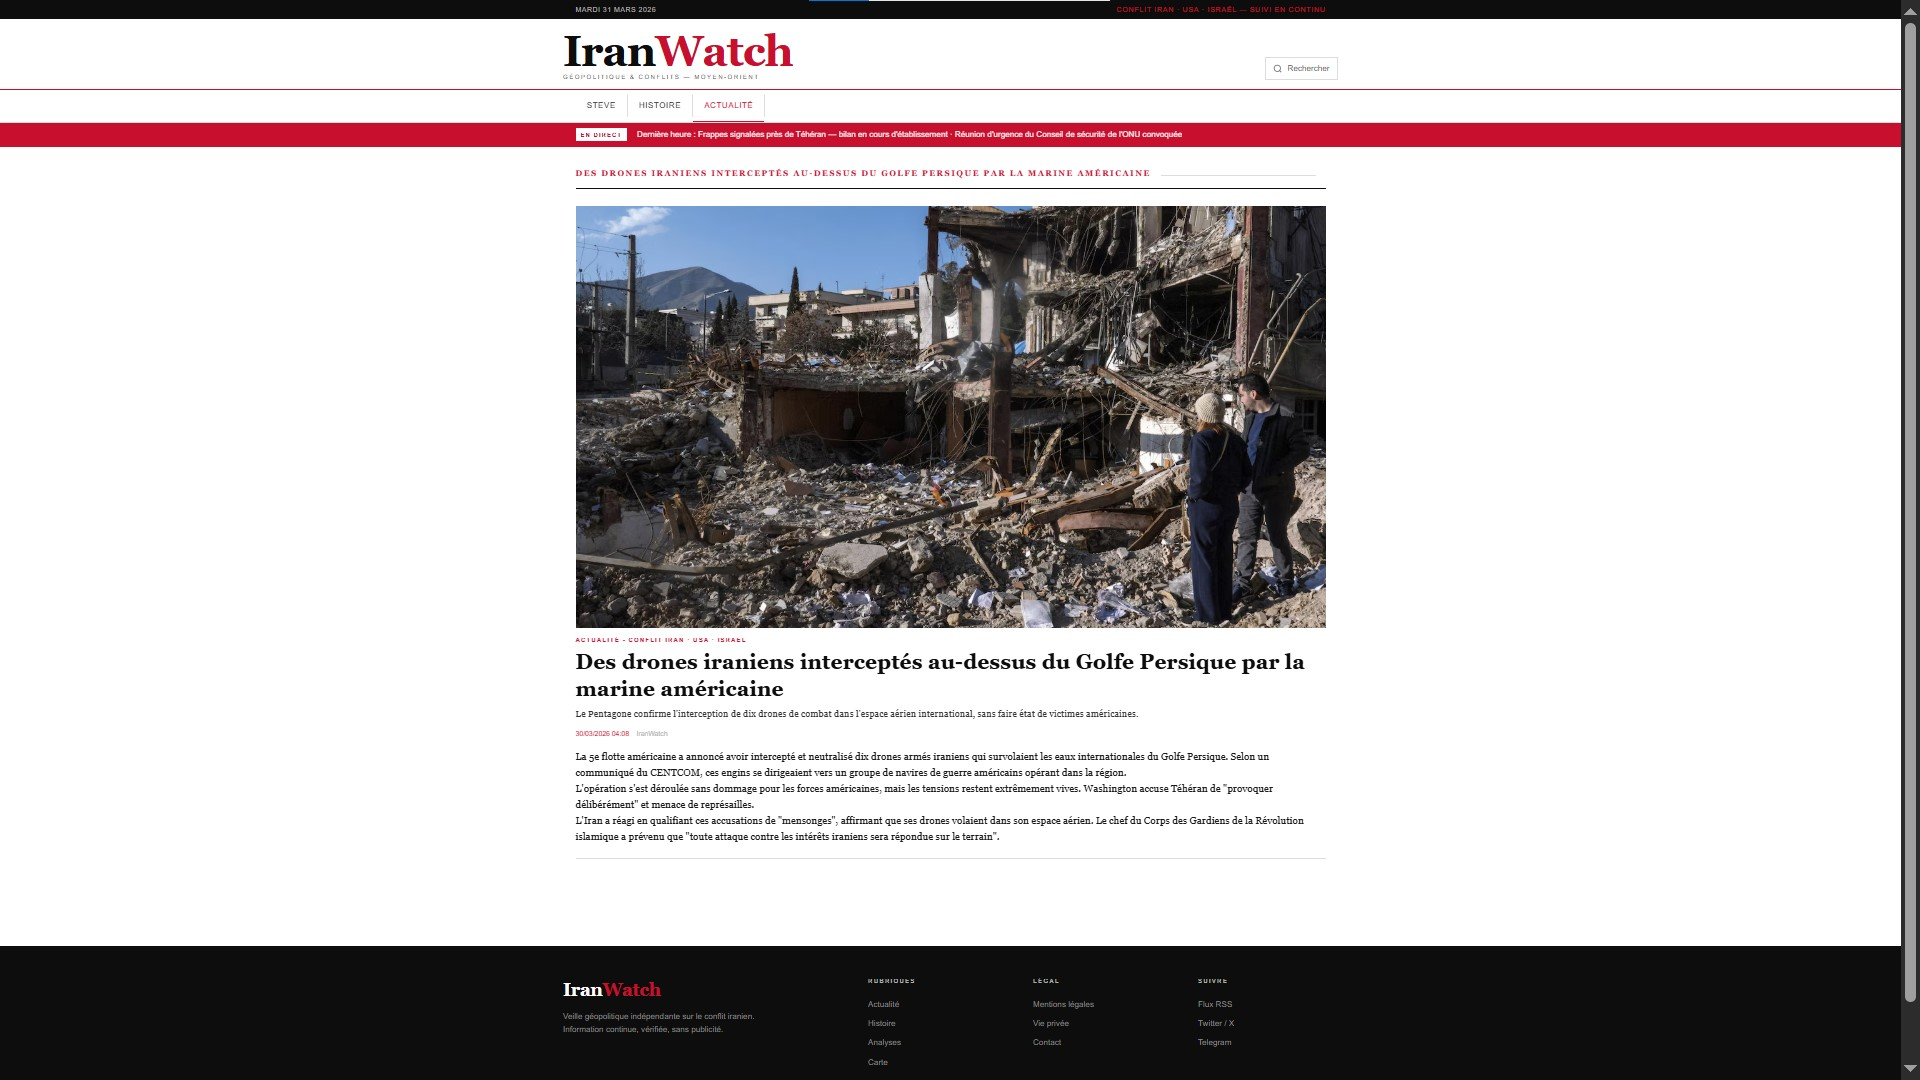
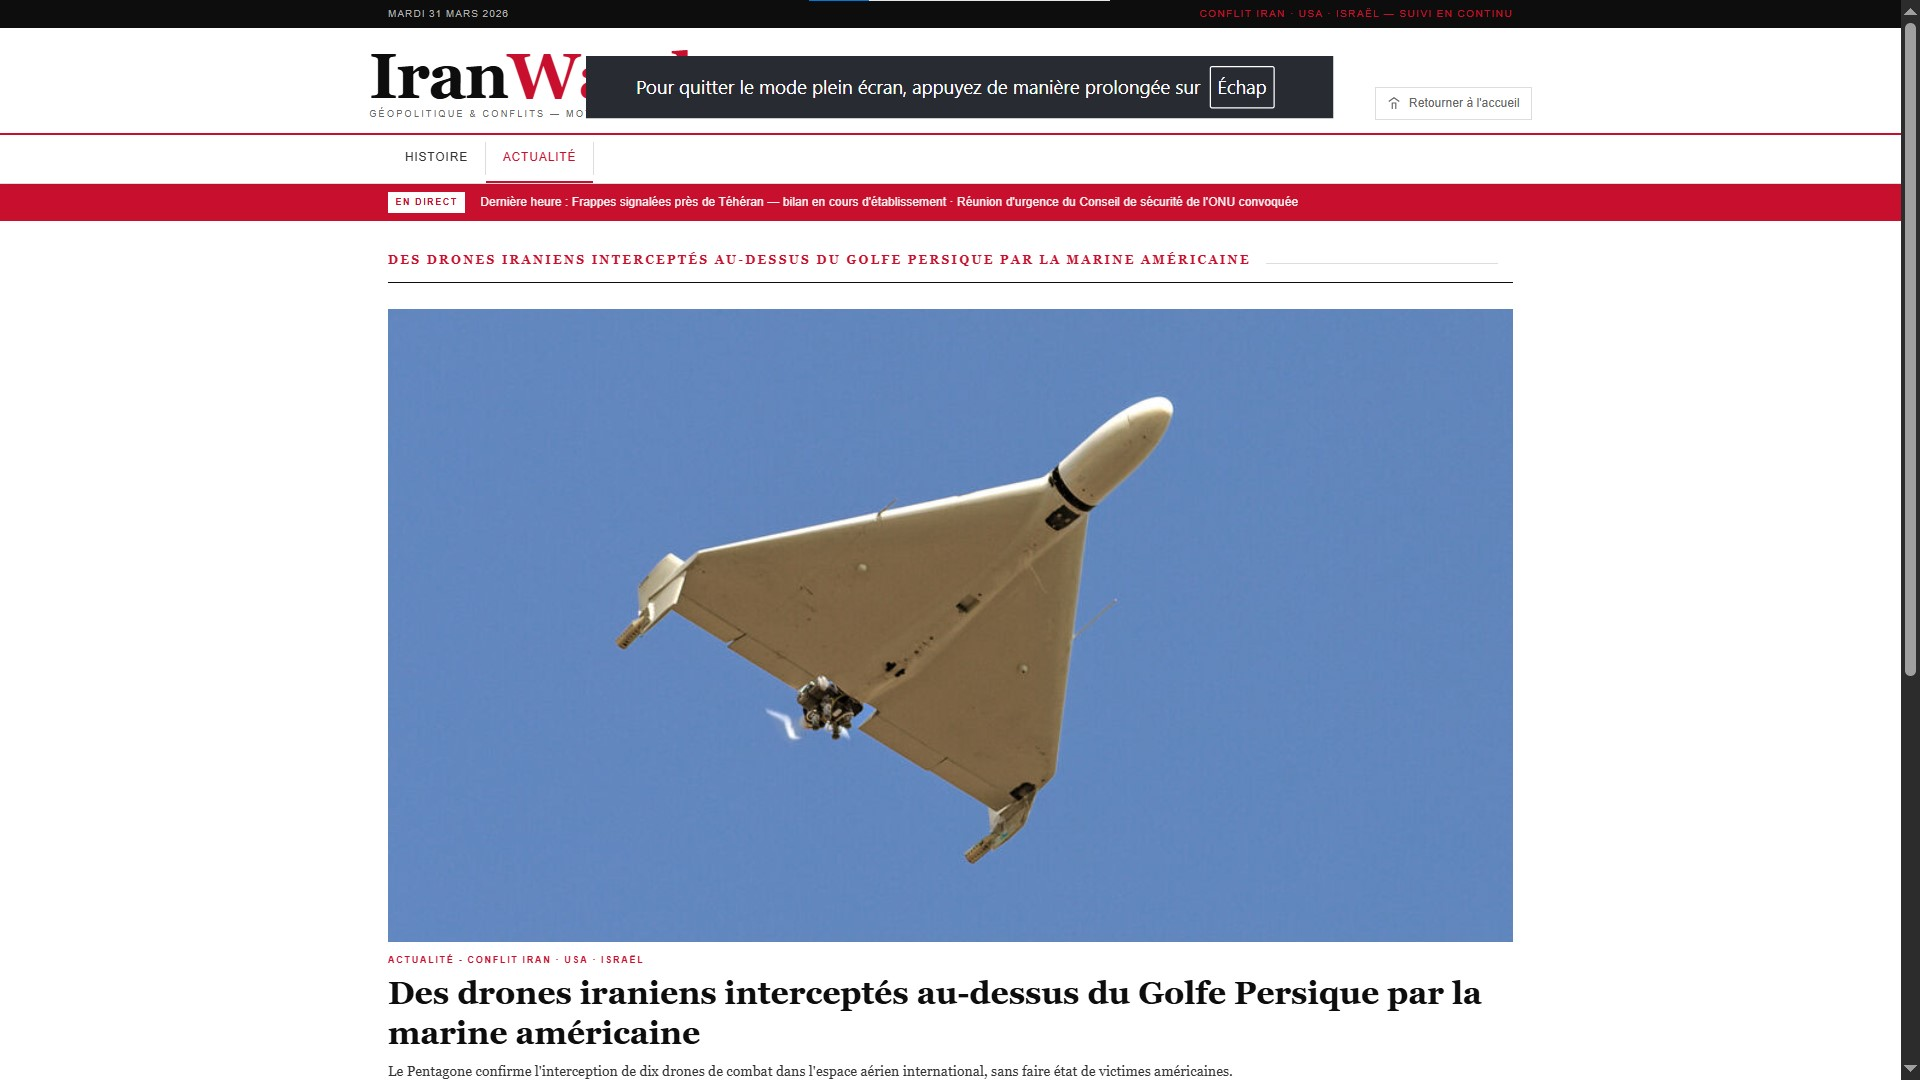
Section controlleur dynamic

diff --git a/app/views/front_office/pages/Section/SectionIndex.php b/app/views/front_office/pages/Section/SectionIndex.php
@@ -1,0 +1,104 @@
+<?php
+/**
+ * Vue générique pour l'affichage de la liste des articles d'une section.
+ *
+ * @var object $section  Objet section (stdClass)
+ * @var array  $articles Liste des articles (objets stdClass)
+ */
+
+$hero   = $articles[0] ?? null;
+$others = array_slice($articles, 1);
+?>
+
+<!-- EN-TÊTE DE SECTION -->
+<div class="section-header">
+    <h1 class="section-header__title"><?= htmlspecialchars($section->title) ?></h1>
+    <div class="section-header__line" aria-hidden="true"></div>
+    <span class="section-header__date" id="js-date-long"></span>
+</div>
+
+<!-- ── À LA UNE ──────────────────────────────────────────── -->
+<section aria-labelledby="une-title">
+    <h2 id="une-title" class="visually-hidden">À la une</h2>
+
+    <div class="une-grid">
+
+        <?php if ($hero): ?>
+        <!-- ARTICLE HÉRO -->
+        <article class="article article-hero" itemscope itemtype="https://schema.org/NewsArticle">
+            <?php if (!empty($hero->image_principale)): ?>
+                <img src="<?= htmlspecialchars($hero->image_principale->url) ?>"
+                     alt="<?= htmlspecialchars($hero->image_principale->alt_text ?? $hero->title) ?>"
+                     class="article__img" itemprop="image">
+            <?php else: ?>
+                <div class="img-placeholder article__img" style="width:100%;aspect-ratio:16/9;">IMAGE</div>
+            <?php endif; ?>
+
+            <span class="article__tag" itemprop="articleSection">
+                <?= htmlspecialchars($section->name) ?>
+            </span>
+            <h2 class="article__title" itemprop="headline">
+                <a href="/<?= htmlspecialchars($section->slug) ?>/<?= (int) $hero->id ?>-<?= htmlspecialchars($hero->slug) ?>">
+                    <?= htmlspecialchars($hero->title) ?>
+                </a>
+            </h2>
+            <p class="article__chapo" itemprop="description">
+                <?= htmlspecialchars($hero->summary ?? substr(strip_tags($hero->content_text ?? ''), 0, 200)) ?>
+            </p>
+            <div class="article__meta">
+                <time class="article__meta-time"
+                      datetime="<?= htmlspecialchars($hero->created_at) ?>"
+                      itemprop="datePublished">
+                    <?= date('d/m/Y H:i', strtotime($hero->created_at)) ?>
+                </time>
+                <span>IranWatch</span>
+            </div>
+        </article>
+        <?php else: ?>
+            <p class="no-content">Aucun article disponible pour le moment.</p>
+        <?php endif; ?>
+
+    </div>
+</section>
+
+<!-- ── LISTE DES ARTICLES ──────────────────────────────────── -->
+<?php if (!empty($others)): ?>
+<div class="content-with-sidebar">
+    <section aria-labelledby="flux-title">
+        <h2 class="subsection-title" id="flux-title">
+            Tous les articles — <?= htmlspecialchars($section->name) ?>
+        </h2>
+
+        <div class="articles-list" role="feed" aria-busy="false">
+            <?php foreach ($others as $article): ?>
+            <article class="article article--inline" itemscope itemtype="https://schema.org/NewsArticle">
+                <?php if (!empty($article->image_principale)): ?>
+                    <img src="<?= htmlspecialchars($article->image_principale->url) ?>"
+                         alt="<?= htmlspecialchars($article->image_principale->alt_text ?? $article->title) ?>"
+                         class="article__img" loading="lazy">
+                <?php else: ?>
+                    <div class="img-placeholder article__img" style="width:120px;height:90px;">IMG</div>
+                <?php endif; ?>
+
+                <div class="article__body">
+                    <span class="article__tag"><?= htmlspecialchars($section->name) ?></span>
+                    <h3 class="article__title" itemprop="headline">
+                        <a href="/<?= htmlspecialchars($section->slug) ?>/<?= (int) $article->id ?>-<?= htmlspecialchars($article->slug) ?>">
+                            <?= htmlspecialchars($article->title) ?>
+                        </a>
+                    </h3>
+                    <p class="article__chapo" itemprop="description">
+                        <?= htmlspecialchars($article->summary ?? substr(strip_tags($article->content_text ?? ''), 0, 150)) ?>
+                    </p>
+                    <div class="article__meta">
+                        <time class="article__meta-time" datetime="<?= htmlspecialchars($article->created_at) ?>">
+                            <?= date('d/m/Y H:i', strtotime($article->created_at)) ?>
+                        </time>
+                    </div>
+                </div>
+            </article>
+            <?php endforeach; ?>
+        </div>
+    </section>
+</div>
+<?php endif; ?>

diff --git a/app/views/front_office/pages/Section/SectionShow.php b/app/views/front_office/pages/Section/SectionShow.php
@@ -1,0 +1,83 @@
+<?php
+/**
+ * Vue générique pour l'affichage du détail d'un article d'une section.
+ *
+ * @var object $article Objet article (stdClass)
+ * @var object $section Objet section (stdClass)
+ */
+?>
+
+<article class="article-full" itemscope itemtype="https://schema.org/NewsArticle">
+
+    <!-- EN-TÊTE ARTICLE -->
+    <header class="article-full__header">
+        <span class="article__tag" itemprop="articleSection">
+            <?= htmlspecialchars($section->name) ?>
+        </span>
+
+        <h1 class="article-full__title" itemprop="headline">
+            <?= htmlspecialchars($article->title) ?>
+        </h1>
+
+        <?php if (!empty($article->summary)): ?>
+        <p class="article-full__chapo" itemprop="description">
+            <?= htmlspecialchars($article->summary) ?>
+        </p>
+        <?php endif; ?>
+
+        <div class="article__meta">
+            <time class="article__meta-time"
+                  datetime="<?= htmlspecialchars($article->created_at) ?>"
+                  itemprop="datePublished">
+                <?= date('d/m/Y H:i', strtotime($article->created_at)) ?>
+            </time>
+            <?php if ($article->updated_at !== $article->created_at): ?>
+            <time class="article__meta-time article__meta-time--updated"
+                  datetime="<?= htmlspecialchars($article->updated_at) ?>"
+                  itemprop="dateModified">
+                · Mis à jour le <?= date('d/m/Y H:i', strtotime($article->updated_at)) ?>
+            </time>
+            <?php endif; ?>
+            <span>IranWatch</span>
+        </div>
+    </header>
+
+    <!-- IMAGE PRINCIPALE -->
+    <?php if (!empty($article->image_principale)): ?>
+    <figure class="article-full__figure">
+        <img src="<?= htmlspecialchars($article->image_principale->url) ?>"
+             alt="<?= htmlspecialchars($article->image_principale->alt_text ?? $article->title) ?>"
+             class="article-full__img"
+             itemprop="image">
+    </figure>
+    <?php endif; ?>
+
+    <!-- CORPS DE L'ARTICLE -->
+    <div class="article-full__body" itemprop="articleBody">
+        <?= $article->content_text ?? '' ?>
+    </div>
+
+    <!-- GALERIE (images supplémentaires) -->
+    <?php if (!empty($article->images) && count($article->images) > 1): ?>
+    <section class="article-full__gallery" aria-label="Galerie photos">
+        <h2 class="subsection-title">Photos</h2>
+        <div class="gallery-grid">
+            <?php foreach (array_slice($article->images, 1) as $image): ?>
+            <figure class="gallery-grid__item">
+                <img src="<?= htmlspecialchars($image->url) ?>"
+                     alt="<?= htmlspecialchars($image->alt_text ?? $article->title) ?>"
+                     loading="lazy">
+            </figure>
+            <?php endforeach; ?>
+        </div>
+    </section>
+    <?php endif; ?>
+
+    <!-- RETOUR À LA SECTION -->
+    <div class="article-full__back">
+        <a href="/<?= htmlspecialchars($section->slug) ?>" class="btn-back">
+            ← Retour à <?= htmlspecialchars($section->name) ?>
+        </a>
+    </div>
+
+</article>

diff --git a/app/controllers/SectionController.php b/app/controllers/SectionController.php
@@ -1,0 +1,92 @@
+<?php
+
+namespace app\controllers;
+
+use app\models\Contenu;
+use app\models\Image;
+use app\models\Section;
+
+class SectionController extends BaseController
+{
+    public function __construct()
+    {
+        parent::__construct();
+    }
+
+    public function index(string $slug): void
+    {
+        $sectionModel = new Section();
+        $section = $sectionModel->findOne(['slug' => $slug]);
+
+        if (!$section) {
+            $this->notFound();
+            return;
+        }
+
+        $contenuModel = new Contenu();
+        $articles = $contenuModel->getFrontArticlesBySectionId((int) $section->id);
+
+        $imageModel = new Image();
+        foreach ($articles as $article) {
+            $article->images = $imageModel->getFrontImagesByContentId((int) $article->id);
+            $article->image_principale = $article->images[0] ?? null;
+        }
+
+        $this->render('Section/SectionIndex', [
+            'title'           => $section->meta_title ?? $section->title . ' - IranWatch',
+            'metaDescription' => $section->meta_description ?? 'Suivez les actualités sur ' . $section->name,
+            'currentPage'     => $section->slug,
+            'articles'        => $articles,
+            'section'         => $section,
+        ]);
+    }
+
+       public function show(string $slug, int $id, ?string $articleSlug = null): void
+    {
+        // 1. Vérifier que la section existe
+        $sectionModel = new Section();
+        $section = $sectionModel->findOne(['slug' => $slug]);
+ 
+        if (!$section) {
+            $this->notFound();
+            return;
+        }
+ 
+        // 2. Récupérer l'article
+        $contenuModel = new Contenu();
+        $article = $contenuModel->getFrontArticleById($id);
+ 
+        if (!$article) {
+            $this->notFound();
+            return;
+        }
+ 
+        // 3. Vérifier que l'article appartient bien à cette section
+        if ((int) $article->section_id !== (int) $section->id) {
+            $this->notFound();
+            return;
+        }
+ 
+        // 4. Canonicaliser l'URL si le slug article est absent ou incorrect
+        if ($articleSlug === null || $articleSlug !== $article->slug) {
+            header('Location: /' . $section->slug . '/' . $article->id . '-' . $article->slug, true, 301);
+            exit;
+        }
+ 
+        // 5. Charger les images
+        $imageModel = new Image();
+        $article->images = $imageModel->getFrontImagesByContentId((int) $article->id);
+        $article->image_principale = $article->images[0] ?? null;
+ 
+        // 6. Attacher la section à l'article (utile dans la vue)
+        $article->section = $section;
+ 
+        $this->render('Section/SectionShow', [
+            'title'           => $article->meta_title ?? $article->title . ' - IranWatch',
+            'metaDescription' => $article->meta_description ?? strip_tags($article->summary ?? ''),
+            'currentPage'     => $section->slug,
+            'article'         => $article,
+            'section'         => $section,
+        ]);
+    }
+}

diff --git a/public/index.php b/public/index.php
@@ -93,6 +93,7 @@ $baseController = new app\controllers\BaseController();
 $authController = new app\controllers\AuthController();
 $sectionAdminController = new app\controllers\SectionAdminController();
 $contentAdminController = new app\controllers\ContentAdminController();
+$sectionController = new app\controllers\SectionController();
 
 if ($method === 'GET' && $path === '/') {
   $authController->home();
@@ -200,6 +201,27 @@ if ($method === 'POST' && preg_match('#^/admin/sections/(\d+)/contents/save$#', 
 if ($method === 'POST' && preg_match('#^/admin/sections/(\d+)/contents/(\d+)/delete$#', $path, $matches)) {
   $contentAdminController->delete((int) $matches[1], (int) $matches[2]);
   exit;
+}
+
+// Gere dynamiquement les liens
+$reservedPaths = ['login', 'logout', 'admin', 'api', 'actualite', 'histoire'];
+ 
+if (
+    $method === 'GET'
+    && preg_match('#^/([a-z0-9\-]+)/(\d+)(?:-([^/]+))?$#', $path, $matches)
+    && !in_array($matches[1], $reservedPaths, true)
+) {
+    $sectionController->show($matches[1], (int) $matches[2], $matches[3] ?? null);
+    exit;
+}
+
+if (
+    $method === 'GET'
+    && preg_match('#^/([a-z0-9\-]+)$#', $path, $matches)
+    && !in_array($matches[1], $reservedPaths, true)
+) {
+    $sectionController->index($matches[1]);
+    exit;
 }
 
 $baseController->showNotFound();

diff --git a/app/controllers/BaseController.php b/app/controllers/BaseController.php
@@ -74,7 +74,7 @@ class BaseController
         }
 
         http_response_code(404);
-        $this->render('NotFound', [
+        $this->render('Error/NotFound', [
             'title' => '404 - Page introuvable | IranWatch',
             'metaDescription' => 'La page demandee est introuvable.',
             'robots' => 'noindex, follow',
